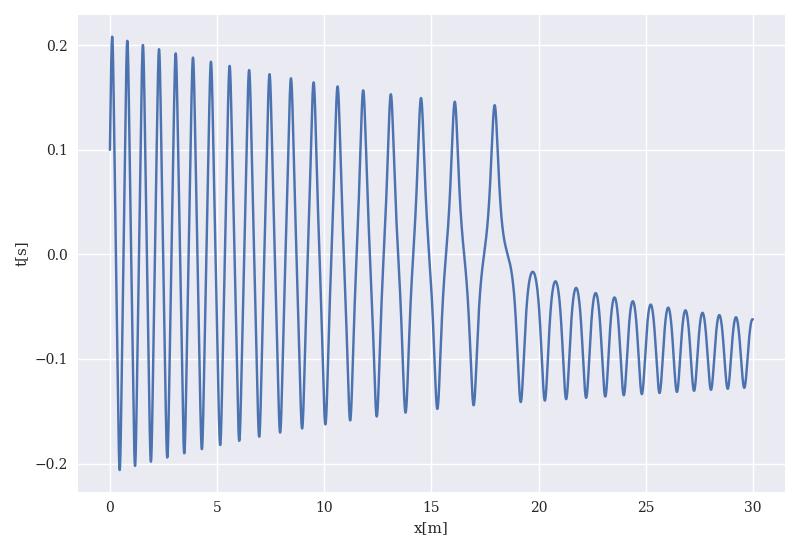
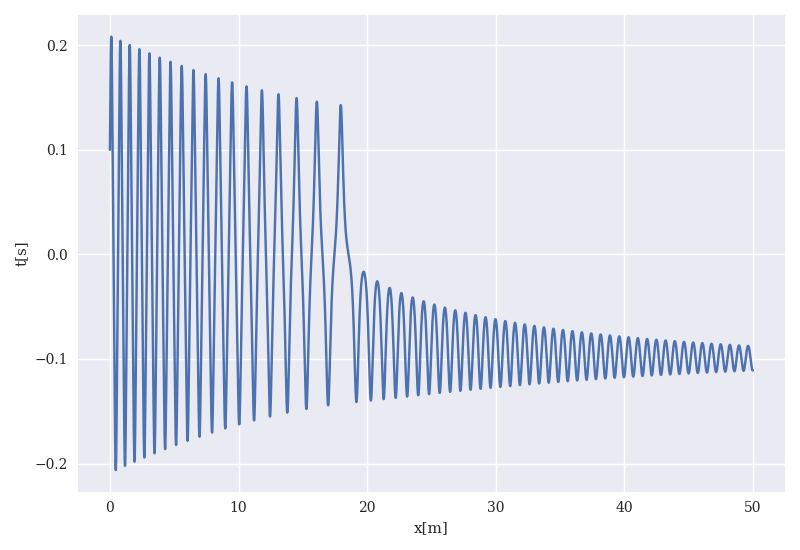
code versions

diff --git a/doc/src/harmonic/Programs/BlockEulerCromer.py b/doc/src/harmonic/Programs/BlockEulerCromer.py
@@ -35,7 +35,7 @@ mpl.rcParams['font.family'] = 'serif'
 
 DeltaT = 0.001
 #set up arrays 
-tfinal = 30.0
+tfinal = 50.0
 n = ceil(tfinal/DeltaT)
 # set up arrays for t, v, and x
 t = np.zeros(n)
